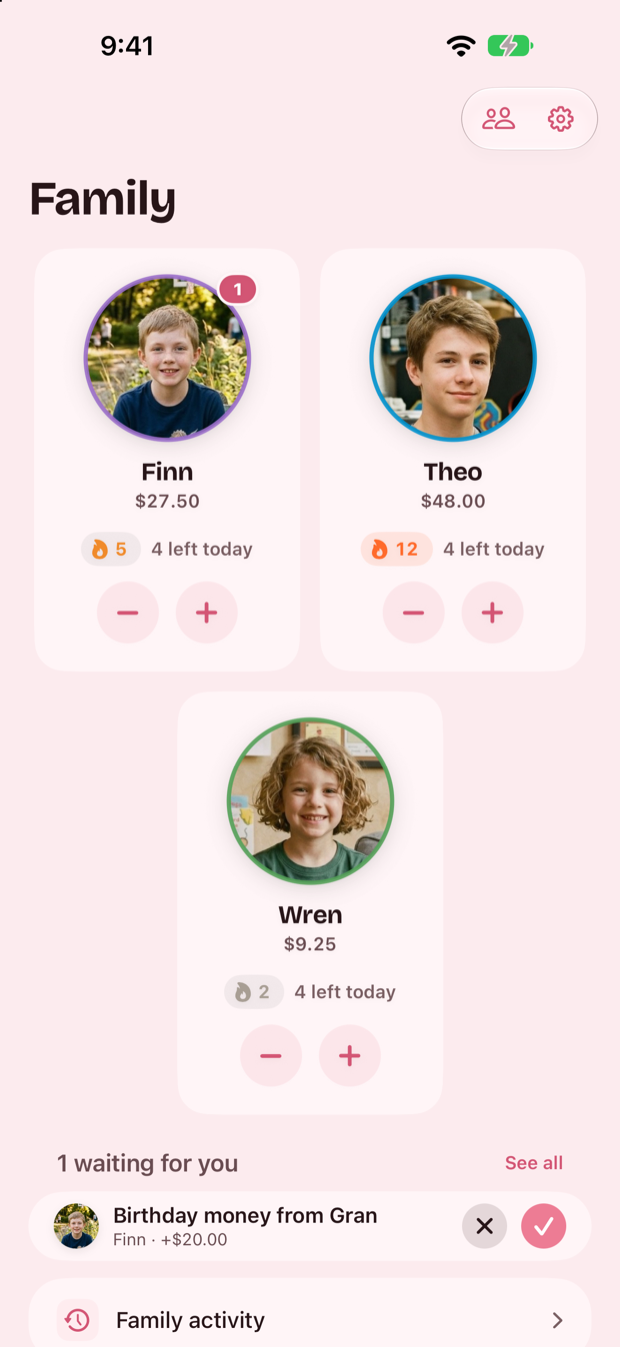
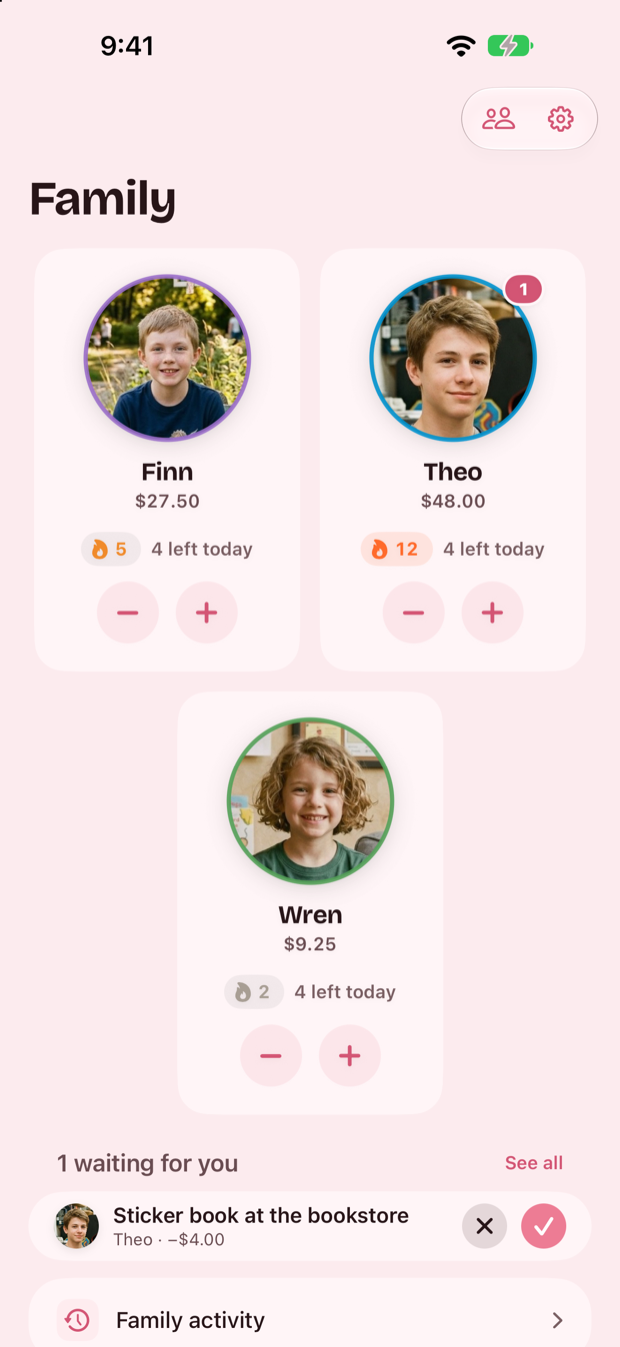
Mina back as the third phone, her own one-kid family; Theo's sticker book is the Family screen's one request

diff --git a/index.html b/index.html
@@ -213,11 +213,11 @@
       <figcaption>What a kid sees: today's chores, and what each one pays.</figcaption>
     </figure>
     <figure>
-      <img src="assets/shot-parent.png" alt="The Family screen in Pig Pal, a parent's home: cards for Finn, Theo and Wren with their photos, balances, streaks, chores left today and quick plus and minus buttons, and below them one request waiting: $20.00 of birthday money Finn wants to add.">
+      <img src="assets/shot-parent.png" alt="The Family screen in Pig Pal, a parent's home: cards for Finn, Theo and Wren with their photos, balances, streaks, chores left today and quick plus and minus buttons, and below them one request waiting: a $4.00 sticker book Theo wants to buy.">
       <figcaption>What a parent sees: everyone at a glance, approvals waiting.</figcaption>
     </figure>
     <figure>
-      <img src="assets/shot-ask.png" alt="Finn's page on a parent's phone in Pig Pal: his photo and a $27.50 balance, Add and Subtract buttons, and under Waiting for you, Birthday money from Gran, $20.00 he wants to add, with a cross and a tick button. Below, his $5.00 Sunday allowance, the Let Finn ask switch, and his chores.">
+      <img src="assets/shot-ask.png" alt="Mina's page on a parent's phone in Pig Pal: her photo and a $48.00 balance, Add and Subtract buttons, and under Waiting for you, Birthday money from Gran, $20.00 she wants to add, with a cross and a tick button. Below, her $8.00 Sunday allowance, the Let Mina ask switch, and her chores.">
       <figcaption>Kids can ask, too: for something to buy, or money to add.</figcaption>
     </figure>
   </div>

diff --git a/BRIEF.md b/BRIEF.md
@@ -157,8 +157,8 @@ the backup is replaced.
 | File | What it is |
 |---|---|
 | `shot-kid.png` | Kid's Chores screen (Theo). Also the `og:image`. 620px wide. |
-| `shot-parent.png` | The Family screen on a parent's own phone (Finn, Theo, Wren), one request waiting. 620px wide. |
-| `shot-ask.png` | Finn's page on the parent's phone, a request to add birthday money waiting. 620px wide. |
+| `shot-parent.png` | The Family screen on a parent's own phone (Finn, Theo, Wren), Theo's sticker book waiting. 620px wide. |
+| `shot-ask.png` | Mina's page on her parent's phone (a one-kid family), a request to add birthday money waiting. 620px wide. |
 | `detail-rewards.png` | Crop: the three reward cards (Finn, Wren), status bar cut off. 620px wide. |
 | `detail-goal.png` | Crop: one savings goal card with auto-save (Theo). |
 | `detail-ask.png` | Crop: the kid's Ask to add money / Ask to buy something buttons (Finn's My money). |
@@ -170,8 +170,10 @@ screenshots; older captures had it filled with the status-bar pink. Crops are cu
 full-resolution captures (1320×2868) and left at that scale. The captures live in
 `PigPay/incoming/website/2026-11-11 build 66/`.
 
-The site shows one household all the way through: Finn, Theo and Wren. Keep it that way
-rather than a different family in every screenshot — a lineup reads as staged.
+The site shows more than one family: Finn, Theo and Wren are one household; Mina is a
+separate family with just her. Never put Mina on Finn, Theo and Wren's Family screen. Keep it to
+a couple of coherent families rather than a different family in every screenshot — a lineup
+reads as staged.
 
 ## Regenerating the screenshots
 
@@ -192,8 +194,10 @@ with the app stopped, rewrite the `pigpay:v1` blob through `simctl spawn … def
 Finn, Theo, Wren, point `photoFilename` at faces (`incoming/photos/faces/f2b`, `f2c`, `f2a`)
 copied into `Documents/KidPhotos/` — set `parentOnlyMode` to true so it's a parent's own phone
 (no Exit Parent), and set `subscriptionTier` to `family` plus `pigpay:dev.tierOverride` so
-nothing shows a lock. Keep one request waiting (Finn's birthday money) so the Family screen stays clean.
-The staged blob is saved as `incoming/website/store-3kids-parentdevice.json`. Override the status bar first (`simctl status_bar … --time 9:41 --batteryLevel 100`).
+nothing shows a lock. Keep one request waiting (Theo's sticker book) so the Family screen stays clean.
+Mina's family is a one-kid copy of the same blob (face `f4b`, her birthday-money request, also
+`parentOnlyMode`). The staged blobs are saved as `incoming/website/store-3kids-parentdevice.json`
+and `store-mina-parentdevice.json`. Override the status bar first (`simctl status_bar … --time 9:41 --batteryLevel 100`).
 The harness never saves, so edits made in it don't stick. After the first launch the simulator
 often renders blank: reboot it before each capture.
 
